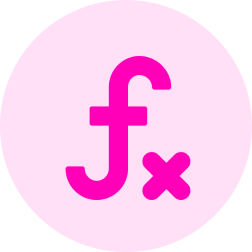
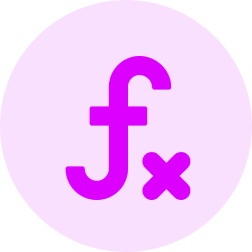
added optimizer tile and styling

Changed region(s): [[0.25, 0.2222, 0.6944, 0.8056], [0.5556, 0.5833, 0.7778, 0.8056]]

diff --git a/client/AnalyticsTile.jsx b/client/AnalyticsTile.jsx
@@ -4,6 +4,7 @@ import LossIcon from './assets/Group 1.png';
 import BiasIcon from './assets/Group 2.png';
 import WeightIcon from './assets/Group 3.png';
 import ActivationIcon from './assets/Group 4.png';
+import OptimizerIcon from './assets/Group 6.png';
 
 const AnalyticsTile = ({ info }) => {
     const {
@@ -25,6 +26,9 @@ const AnalyticsTile = ({ info }) => {
                 )}
                 {type === 'Max Weight' && (
                     <img src={WeightIcon}></img>
+                )}
+                {type === 'Optimizer' && (
+                    <img src={OptimizerIcon}></img>
                 )}
                 {type === 'Activation' && (
                     <img src={ActivationIcon}></img>

diff --git a/client/OptimizerAnalytics.jsx b/client/OptimizerAnalytics.jsx
@@ -23,11 +23,11 @@ const OptimizerAnalytics = ({ socket }) => {
     return (
       <AnalyticsTile info={
         {
-          type:'Max Weight',
+          type:'Optimizer',
           value: optimizerData,
           description: ` Optimizer. ${optimizerLearningRate}`,
-          color: '#68C1E5',
-          boldName: 'Weight'}}/>
+          color: '#FF00B8',
+          boldName: 'Optimizer'}}/>
     );
 };
 

diff --git a/client/VerticalTabNav.jsx b/client/VerticalTabNav.jsx
@@ -129,7 +129,7 @@ export default function VerticalTabs() {
                   type:'Activation',
                   value: 'Tahn',
                   description: ' decides whether or not a neuron should be activated. ',
-                  color: '#FF00B8',
+                  color: '#DB00FF',
                   boldName: 'Activation'}}/>
           </div>
       </TabPanel>
